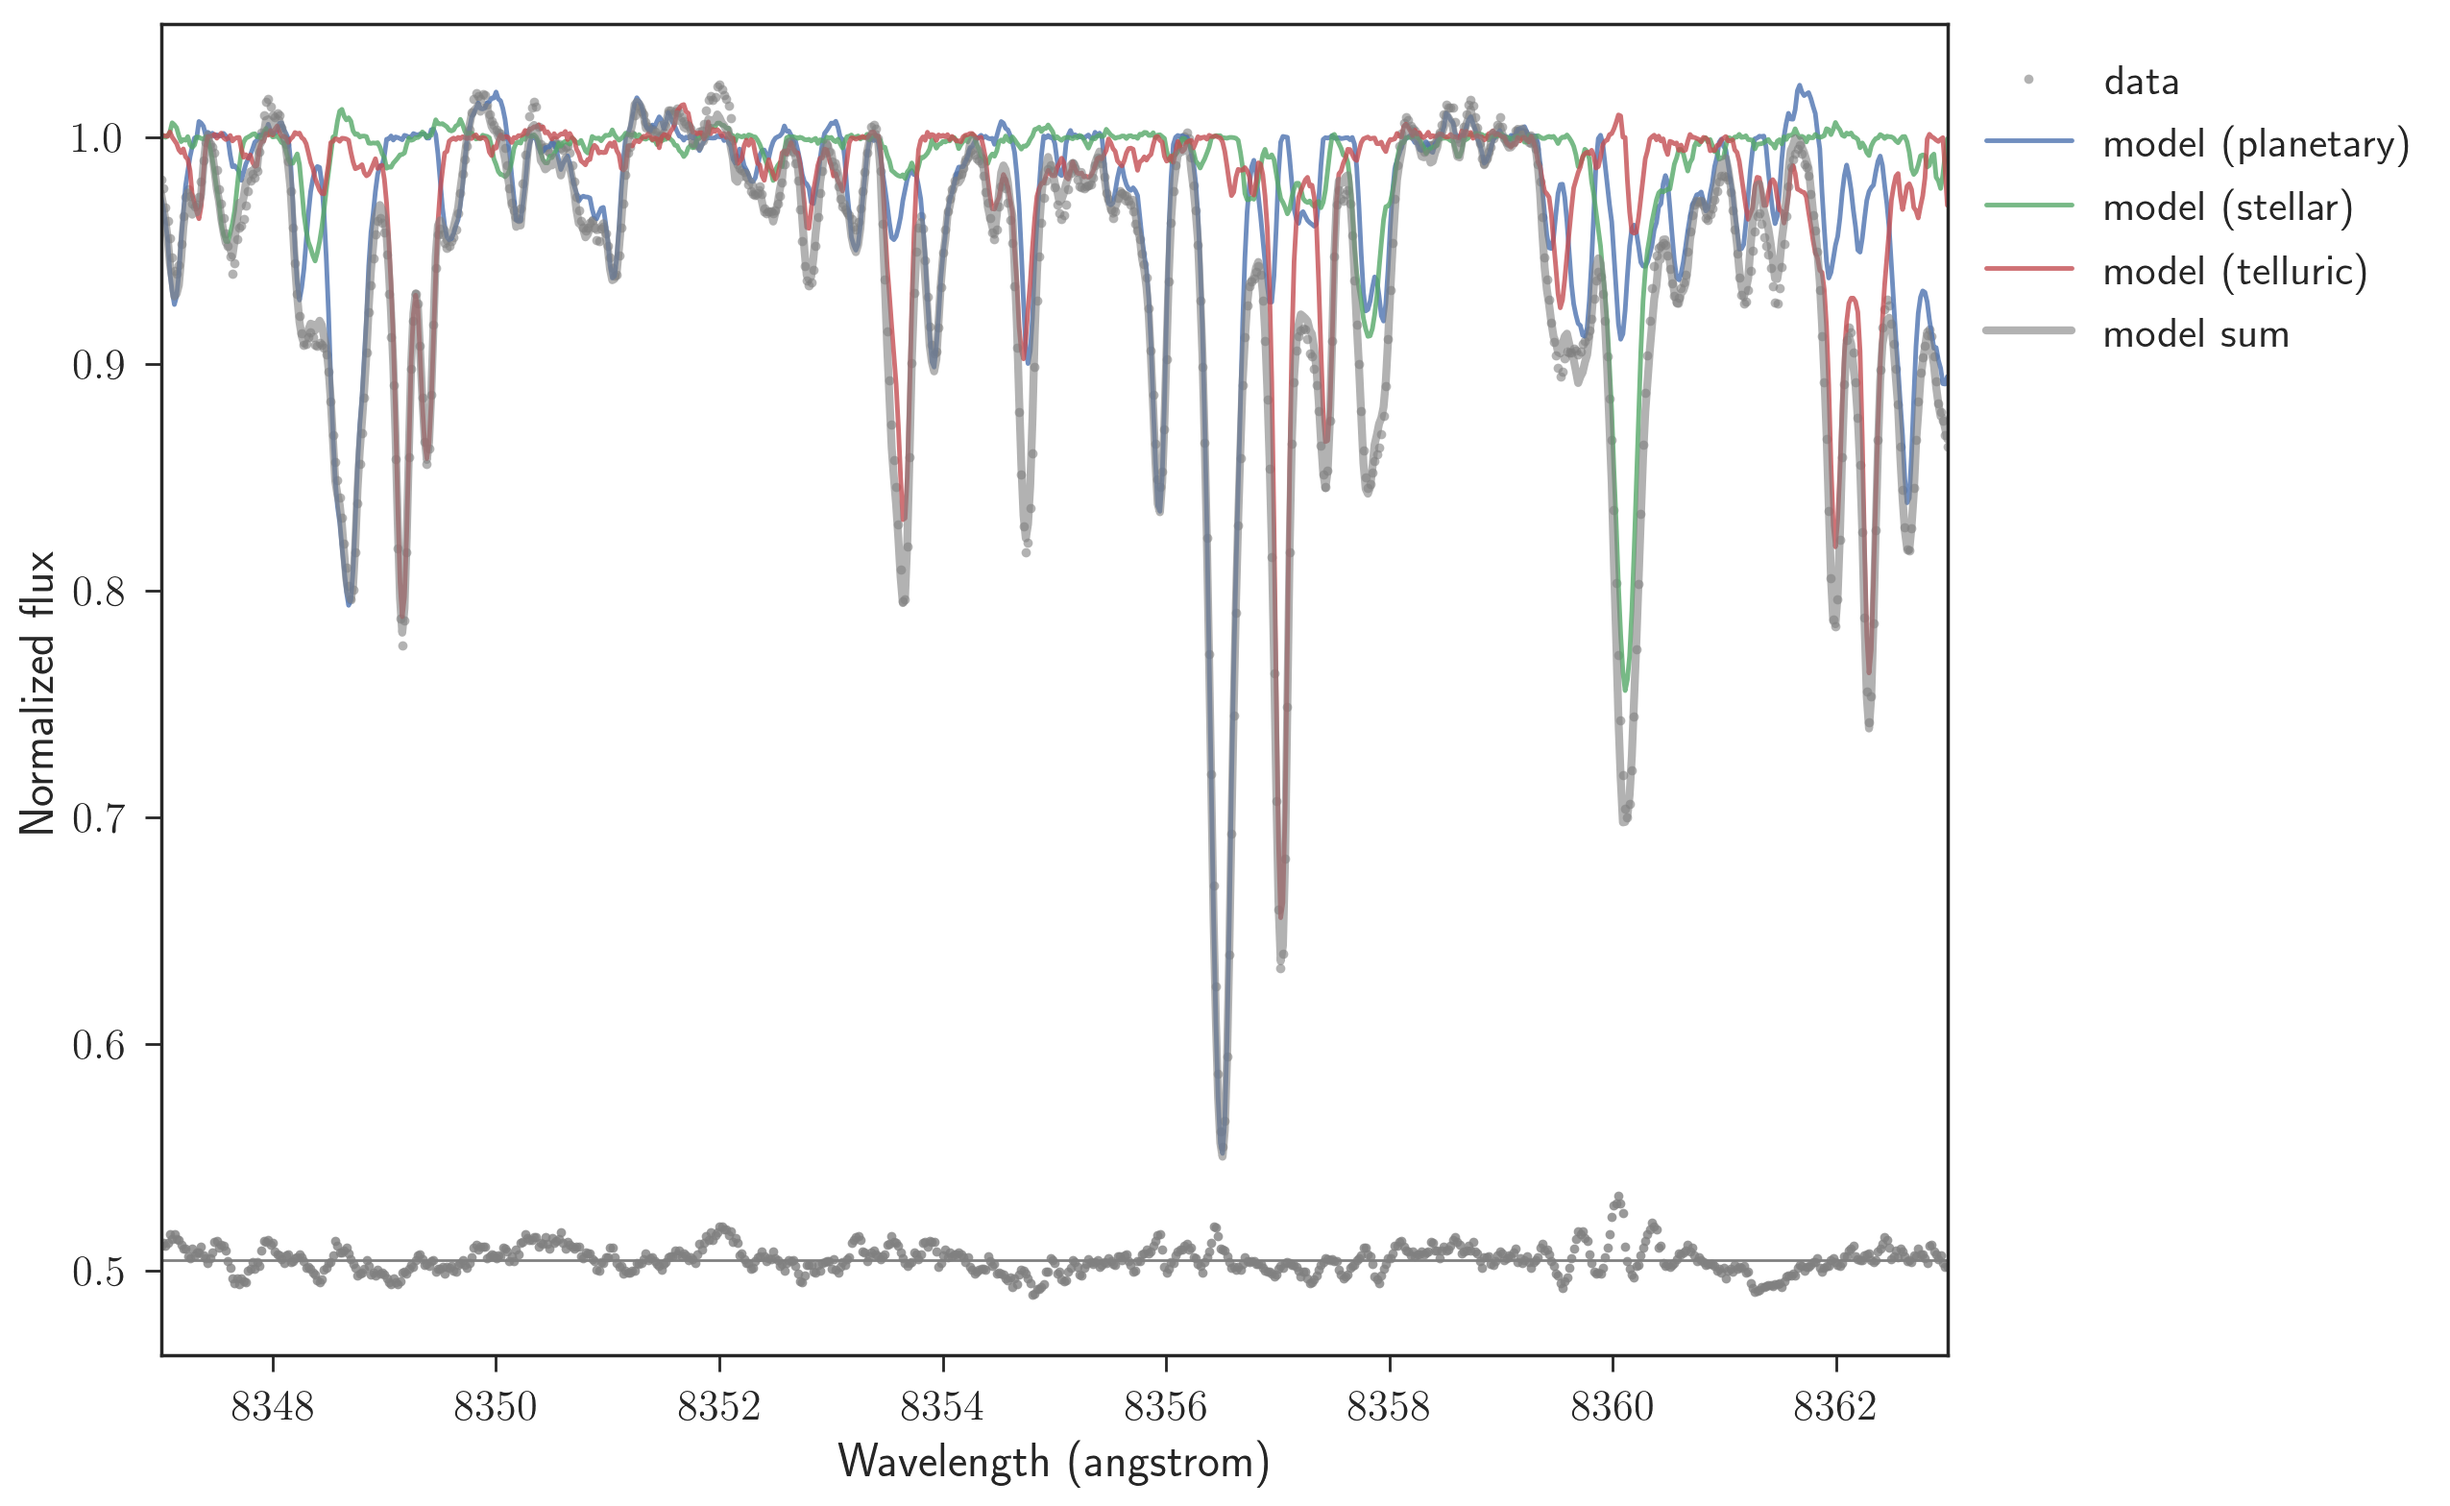
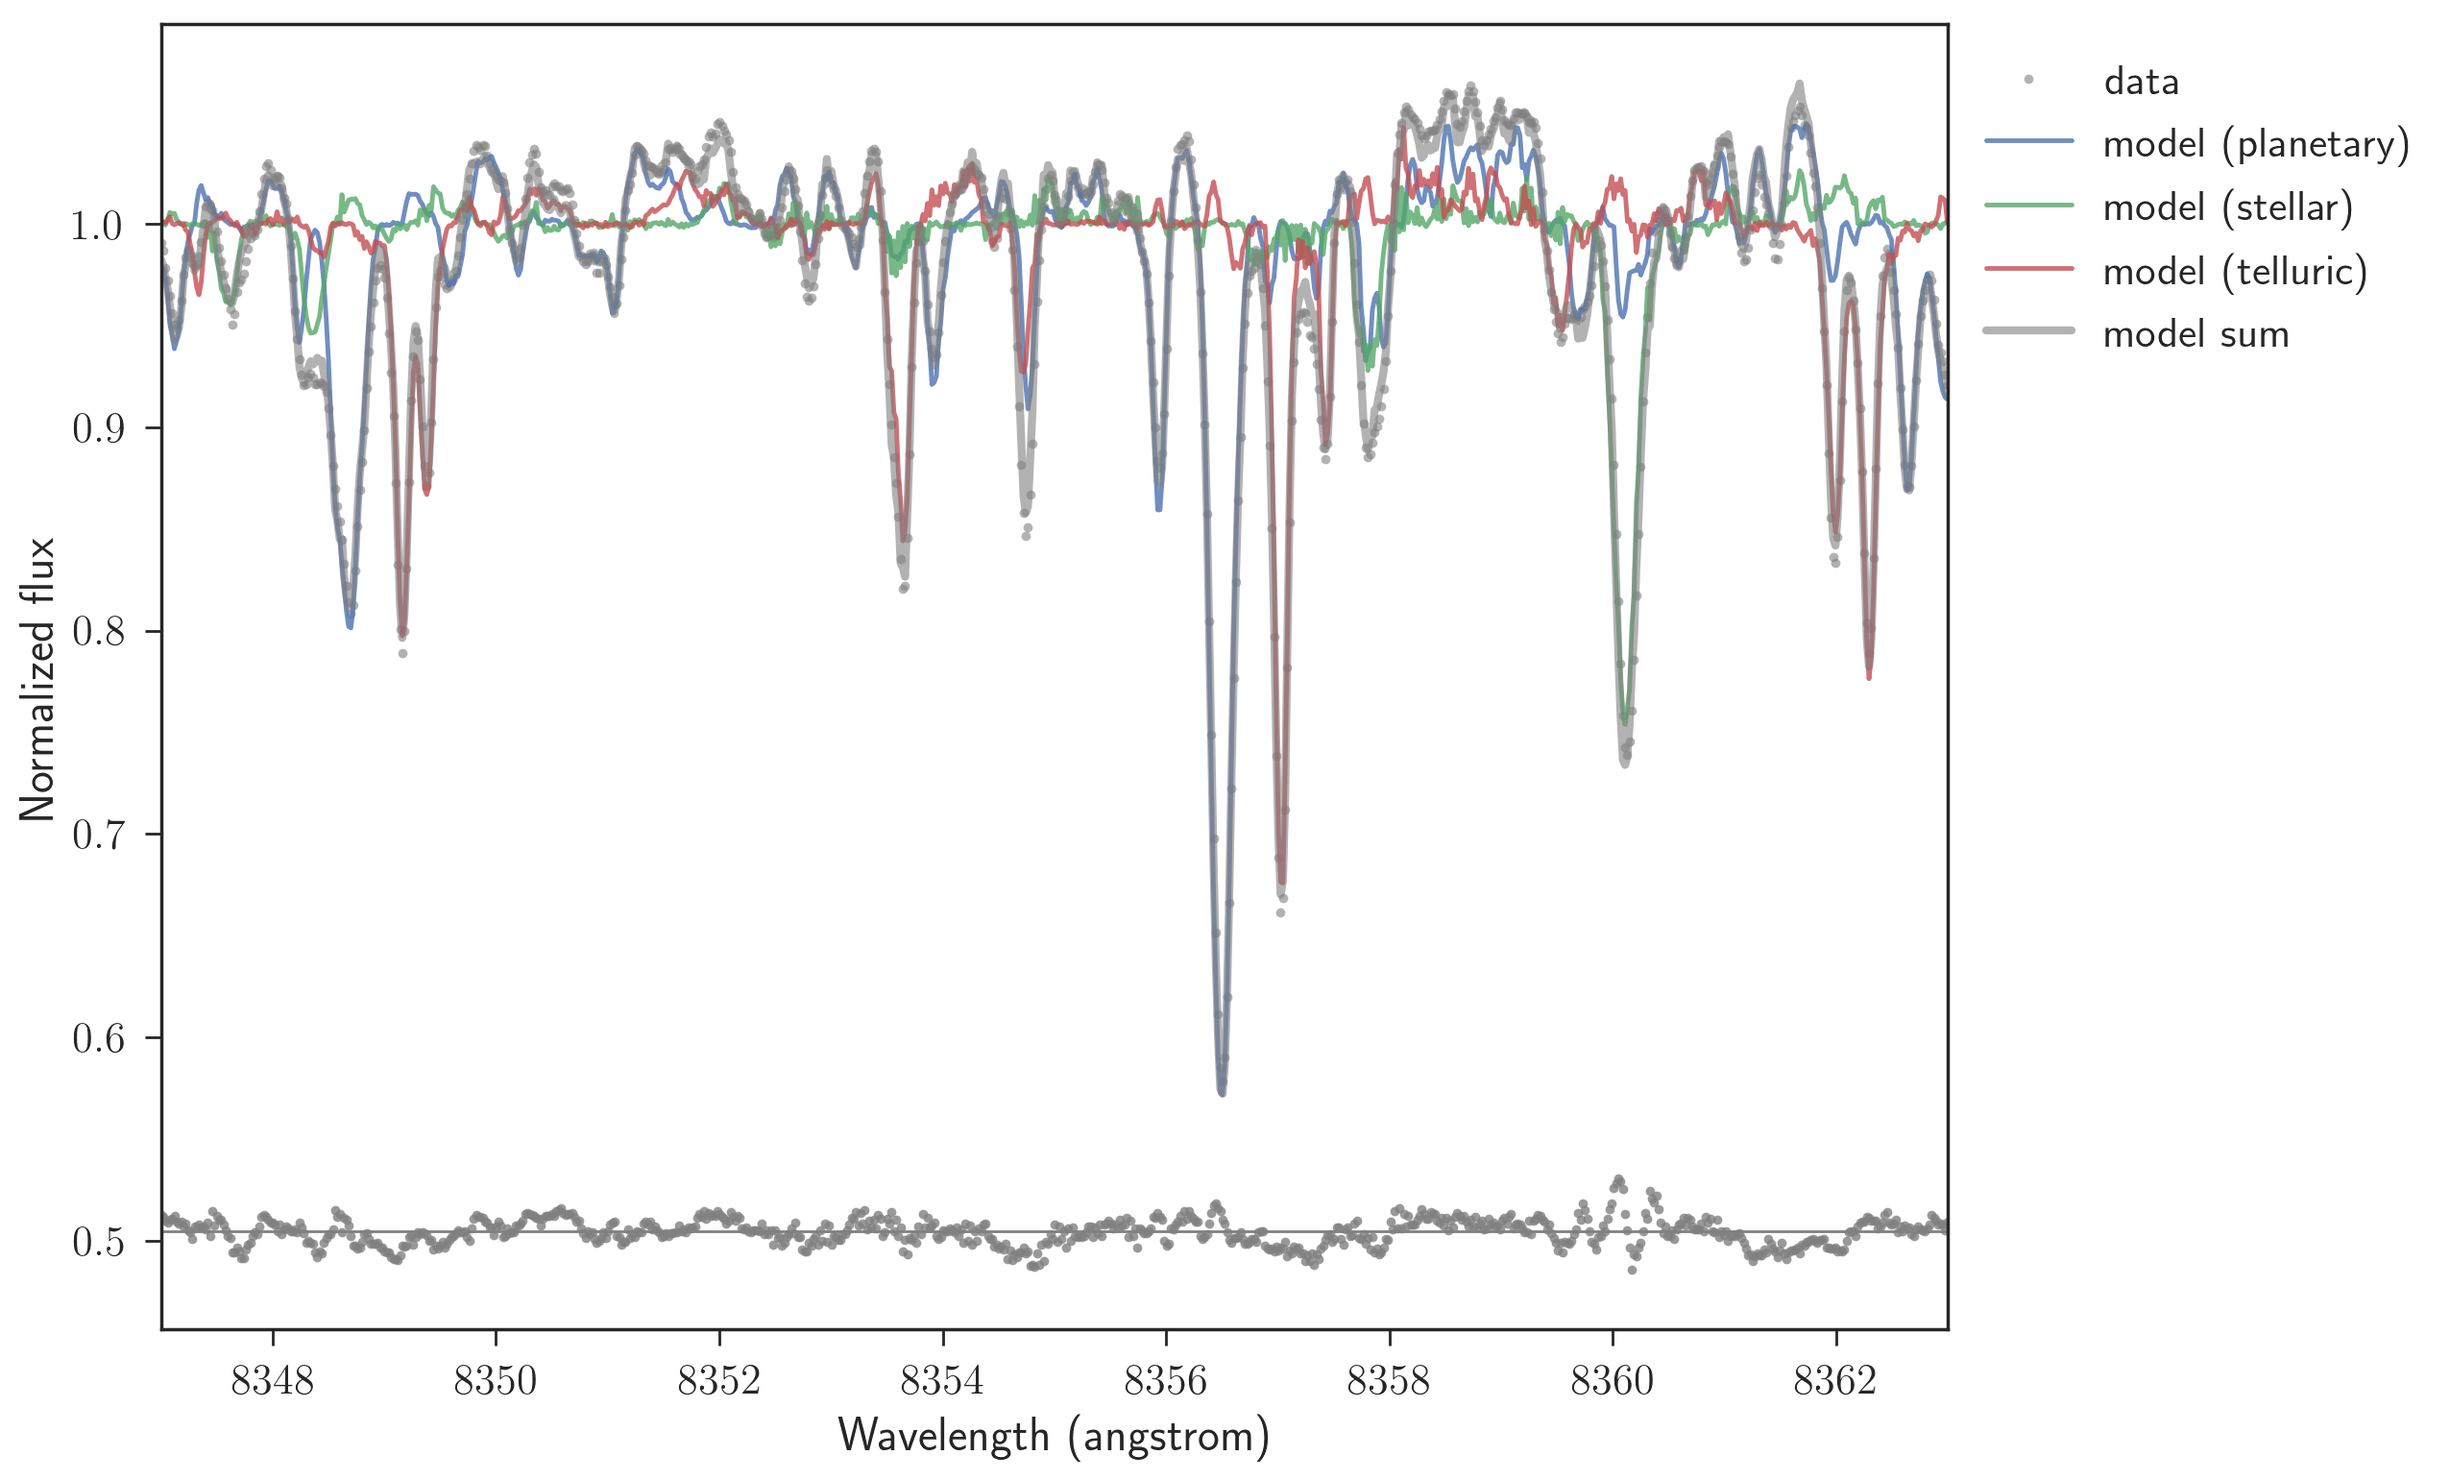
automatic

diff --git a/jupiter/jupiter_decomposition.py b/jupiter/jupiter_decomposition.py
@@ -12,7 +12,7 @@ from matplotlib import rc
 rc('text', usetex=True)
 
 #%%
-#%matplotlib inline
+%matplotlib inline
 
 #%%========================================================================================================
 # load data
@@ -70,15 +70,17 @@ class rotation(torch.nn.Module):
         vrot = self.rv
         return torch.cat([vrot*0, vrot*1, -vrot]), torch.cat([vrot*0, vrot*2, -2*vrot])
 
+npoly = 1
 class continuum(torch.nn.Module):
     def __init__(self):
         super(continuum, self).__init__()
-        self.coeff = torch.nn.Parameter(torch.from_numpy(np.array([1.,0.,0.,0.,0.])).type(dtype))
+        self.coeff = torch.nn.Parameter(torch.from_numpy(np.array([1]+[0]*npoly)).type(dtype).repeat(num_obs).view((num_obs,-1)))
 
     def forward(self, x):
         c = self.coeff
         x = x - torch.mean(x)
-        return c[0] + c[1]*x + c[2]*x*x + c[3]*x*x + c[4]*x*x*x
+        _x = torch.cat([x ** i for i in range(npoly+1)]).view(npoly+1,-1)
+        return torch.cat([torch.mv(_x.t(), c[i]) for i in range(num_obs)]).view(num_obs,-1)
 
 #%%========================================================================================================
 # cpu or gpu?
@@ -103,6 +105,7 @@ rest_spec_model_3 = rest_spec()
 #rv_model_2 = radial_velocity()
 rv_model_rot = rotation()
 rv_model_3 = telluric_velocity()
+cont_model = continuum()
 
 # make it GPU accessible
 if 'cuda' in str(dtype):
@@ -121,7 +124,7 @@ learning_rate_rv = 1e-2
 optimizer = torch.optim.Adam([{'params': rest_spec_model_1.parameters(), "lr": learning_rate_spec},\
                               {'params': rest_spec_model_2.parameters(), "lr": learning_rate_spec},\
                               #{'params': rv_model_1.parameters(), "lr": learning_rate_rv},\
-                              #{'params': cont_model.parameters(), "lr": learning_rate_spec},\
+                              {'params': cont_model.parameters(), "lr": learning_rate_spec},\
                               {'params': rv_model_rot.parameters(), "lr": learning_rate_rv},\
                               {'params': rest_spec_model_3.parameters(), "lr": learning_rate_spec}])
 
@@ -190,6 +193,7 @@ for i in range(int(num_train/5)):
 #---------------------------------------------------------------------------------------------------------
     # combine prediction
     spec_shifted_recovered = spec_shifted_recovered_1*spec_shifted_recovered_2*spec_shifted_recovered_3
+    spec_shifted_recovered *= cont_model.forward(new_wavelength[0])
 
 #---------------------------------------------------------------------------------------------------------
     # the loss function is simply comparing the reconstructed spectra vs. obs spectra
@@ -216,7 +220,7 @@ print ('L2 norm:', torch.norm(spec_shifted_recovered-spec_shifted_torch, 2).data
 print ('rotation velocity:', rv_model_rot.rv.data.item())
 
 #%%
-#pl.plot(vrot_arr)
+pl.plot(vrot_arr);
 
 #%%
 rawmodels=[spec_1.detach().numpy(), spec_2.detach().numpy(), spec_3.detach().numpy()]
@@ -225,6 +229,10 @@ models=[spec_shifted_recovered_1.detach().numpy(), spec_shifted_recovered_2.deta
 #%%
 rvs=[RV_pred_1.cpu().detach().numpy(), RV_pred_2.cpu().detach().numpy(), RV_pred_3.cpu().detach().numpy()]
 #print (rvs)
+
+#%%
+conts=cont_model.forward(new_wavelength[0])
+conts=[conts[i].detach().numpy() for i in range(num_obs)]
 
 #%%
 mlabels=['planetary', 'stellar', 'telluric']
@@ -236,12 +244,12 @@ for i in range(num_obs):
     pl.xlim(wmin, wmax)
     pl.xlabel('Wavelength (angstrom)')
     pl.ylabel('Normalized flux')
-    pl.plot(wavelength[num_pix_drop:-num_pix_drop], spec_shifted[i][num_pix_drop:-num_pix_drop], '.', color='gray', lw=6, alpha=0.6, label='data')
+    pl.plot(wavelength[num_pix_drop:-num_pix_drop], (spec_shifted[i]/conts[i])[num_pix_drop:-num_pix_drop], '.', color='gray', lw=6, alpha=0.6, label='data')
     for j in range(3):
         pl.plot(wavelength[num_pix_drop:-num_pix_drop], models[j][i][num_pix_drop:-num_pix_drop], '-', alpha=0.8, label='model (%s)'%mlabels[j])
     pl.plot(wavelength[num_pix_drop:-num_pix_drop], np.prod(models, axis=0)[i][num_pix_drop:-num_pix_drop], '-', color='gray', lw=3, alpha=0.6, label='model sum')
     y0=np.min(spec_shifted[i][num_pix_drop:-num_pix_drop])-0.05
-    pl.plot(wavelength[num_pix_drop:-num_pix_drop], y0+spec_shifted[i][num_pix_drop:-num_pix_drop]-np.prod(models, axis=0)[i][num_pix_drop:-num_pix_drop], '.',  color='gray', lw=2, alpha=0.8)
+    pl.plot(wavelength[num_pix_drop:-num_pix_drop], y0+spec_shifted[i][num_pix_drop:-num_pix_drop]-(np.prod(models, axis=0)[i]*conts[i])[num_pix_drop:-num_pix_drop], '.',  color='gray', lw=2, alpha=0.8)
     pl.axhline(y=y0, lw=1, color='gray')
     pl.legend(loc='best', bbox_to_anchor=(1,1))
     pl.savefig('data_%s.png'%dlabels[i], dpi=200, bbox_inches='tight')
